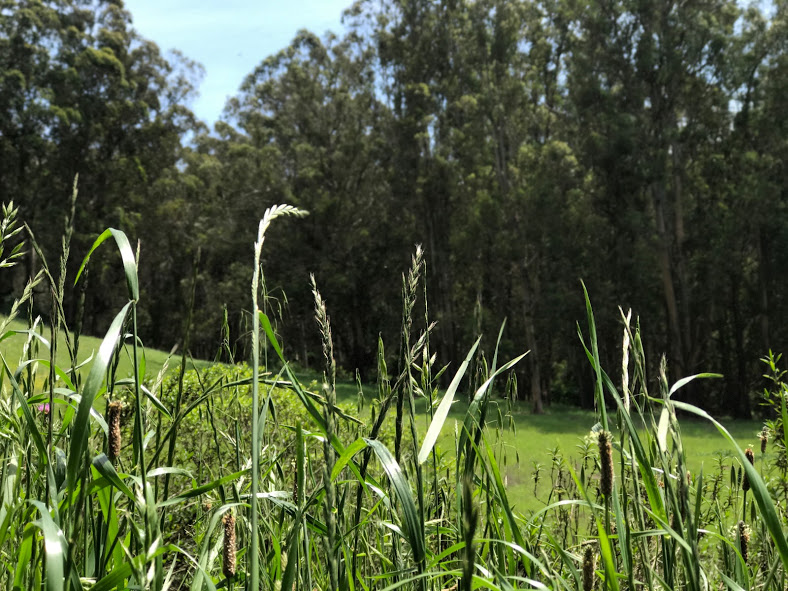
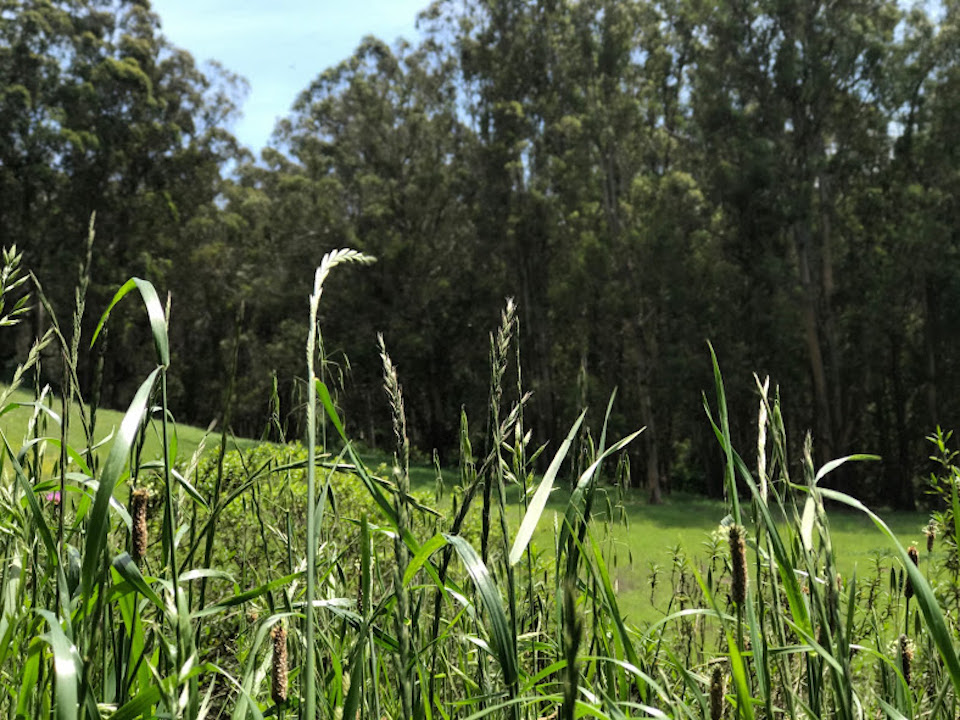
added background image as well as the connect section

diff --git a/index.html b/index.html
@@ -21,7 +21,7 @@
 
           <!-- add styles and color to your navigaton menu -->
   </head>
-  <body style="background: url(https://static.pexels.com/photos/7174/summer-grass.jpg)">
+  <body >
     <div id="main-nav" class="navbar navbar-default">
       <div class="container">
         <div class=" navbar-header">
@@ -47,7 +47,7 @@
   <div class="jumbotron" id="welcomePic" >
     <div class="container">
       <div class="rows">
-        <div class="text col-md-6">
+        <div class="text col-md-12">
           <h1>Hafa Adai,<br>
           Welcome to my page.</h1>
           <p>Lorem Ipsum is simply dummy text of the printing and typesetting industry. Lorem Ipsum has been the industry's standard dummy text ever since the 1500s, when an unknown printer took a galley of type and scrambled it to make a type specimen book. It has survived not only five centuries, but also the leap into electronic typesetting, remaining essentially unchanged. It was popularised in the 1960s with the release of Letraset sheets containing Lorem Ipsum passages, and more recently with desktop publishing software like Aldus PageMaker including versions of Lorem Ipsum.
@@ -55,15 +55,21 @@
           </p>
         </div>
         <div class="">
-        <a href="#contact" class="btn btn-default btn-lg active col-md-6" role="button">Link</a>
+          <div class="col-md-4"></div>
+        <a href="#contact" class="btn btn-default btn-lg active col-md-4" role="button">Link</a>
+        <div class="col-md-4"></div>
         <!-- <input class="btn btn-default" type="button" data-target="#contact" value=""> -->
         </div>
       </div>
     </div>
   </div>
   <!-- the second section -->
-  <div class="container">
-
+  <div class="container-fluid connect" id="connect_id">
+    <div class="row">
+      <div class="col-md-3">
+        <a  class="circles"href="#"><i class="fa fa-plug" aria-hidden="true"></i></a>
+      </div>
+    </div>
   </div>
   <!-- the div #3 -->
   <div class="container">
@@ -74,7 +80,7 @@
 
   </div>
   <!-- the div #5 ? -->
-  <div id="contact"class="container">
+  <div id="contact" class="container">
     <div class="box">
 
     </div>

diff --git a/css/styles.css b/css/styles.css
@@ -41,5 +41,16 @@ border: 2px solid black;
 }
 
 #welcomePic {
-  "background: url(https://static.pexels.com/photos/7174/summer-grass.jpg)";
+  color: white;
+  text-align: center;
+  background-image: url("../img/IMG_2770.JPG");
+  background-repeat: no-repeat;
+  background-size: cover;
+  margin-bottom: 0;
+}
+/*the connect section*/
+.connect {
+  height: 100px;
+  width: 100%;
+  background-color: grey;
 }
